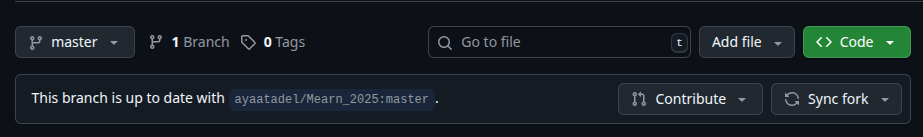
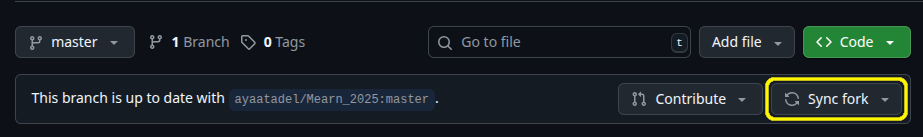
doc: fork add Update upstream section task README

Changed region(s): [[0.8191, 0.5547, 1.0, 0.9051]]

diff --git a/tasks_day2/Forking_Task/README.md b/tasks_day2/Forking_Task/README.md
@@ -2,7 +2,7 @@
 ---
 ## Update Fork From original branch (upstream)
 - Using GitHub `Sync Fork` Button in Fork page to sync directly as shown the image below. <br /> 
-![Sync fork](Sync_fork.png)
+![Sync fork](./Sync_fork.png)
 
 - Create the GitHub Actions Workflow File to sync automaticlly <br /> 
     [Click Here](https://github.com/marketplace/actions/fork-sync) for code and more details. <br /> 
@@ -28,7 +28,17 @@
     5. Push to Your Fork: Now, push the merged changes from your local repository to your fork on GitHub. <br /> 
     `git push origin master` <br /> 
 
-    ---
-
+    --- 
 
 ## Update upstream from fork
+- Open a Pull Request: <br /> 
+    1. Open Pull Request
+        - Go to fork's GitHub page. <br /> 
+            Open Pull Request from the `Contribute` button shown below <br /> 
+        ![Contribute](./contribute.png)
+        - Go to Pull Requests Tab from fork page <br /> 
+    2. Review pull request branches <br /> 
+        > In my case I do the pull request to upstream new branch named `doc/fork-i-samir` as shown below
+        ![Pull Request](./pull_request.png)
+    3. After resolving any conflicts you can push to `master` branch
+    > **PS.** Note that you can make the pull request in step 2 to `master` branch directly or any other branch
